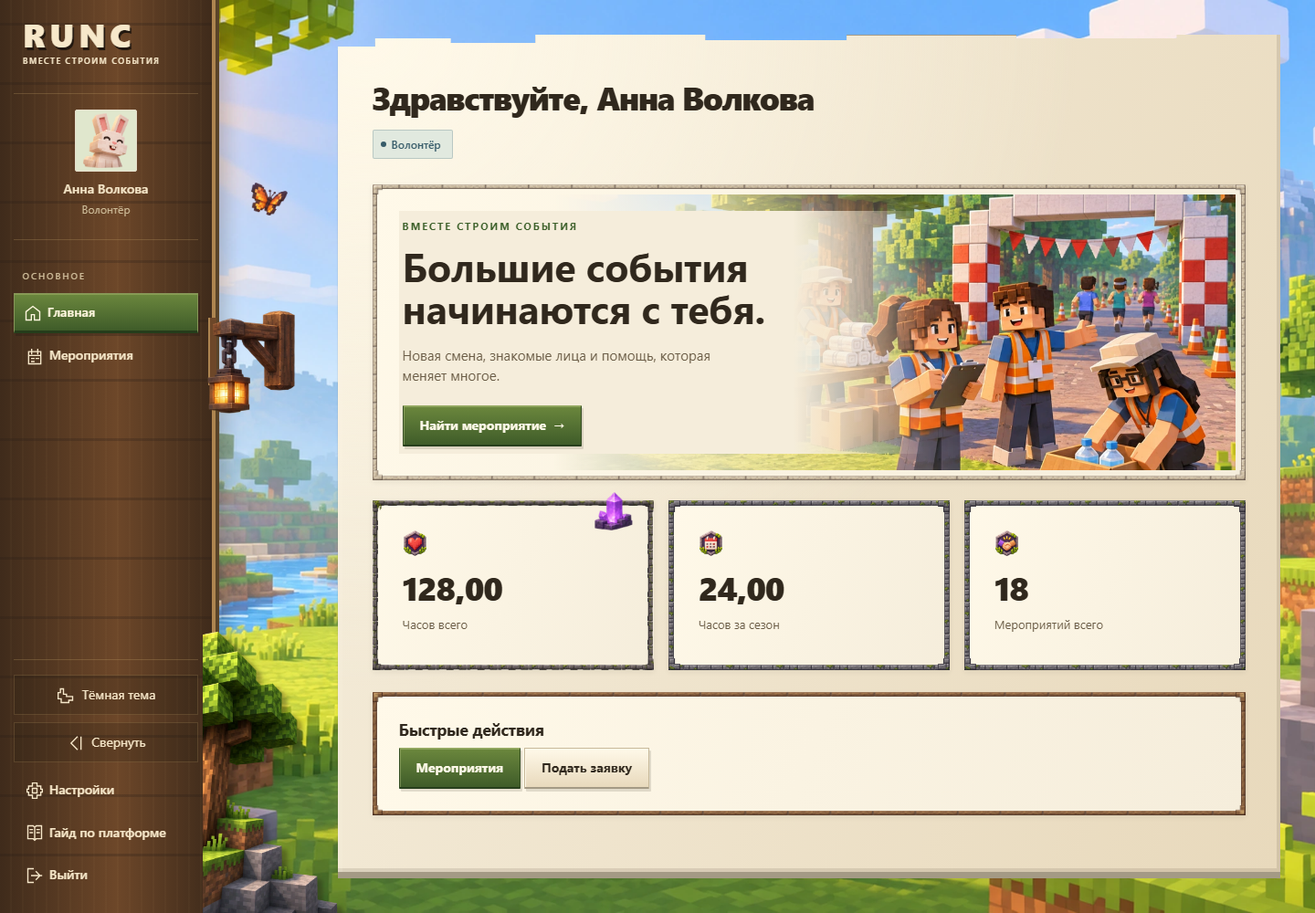
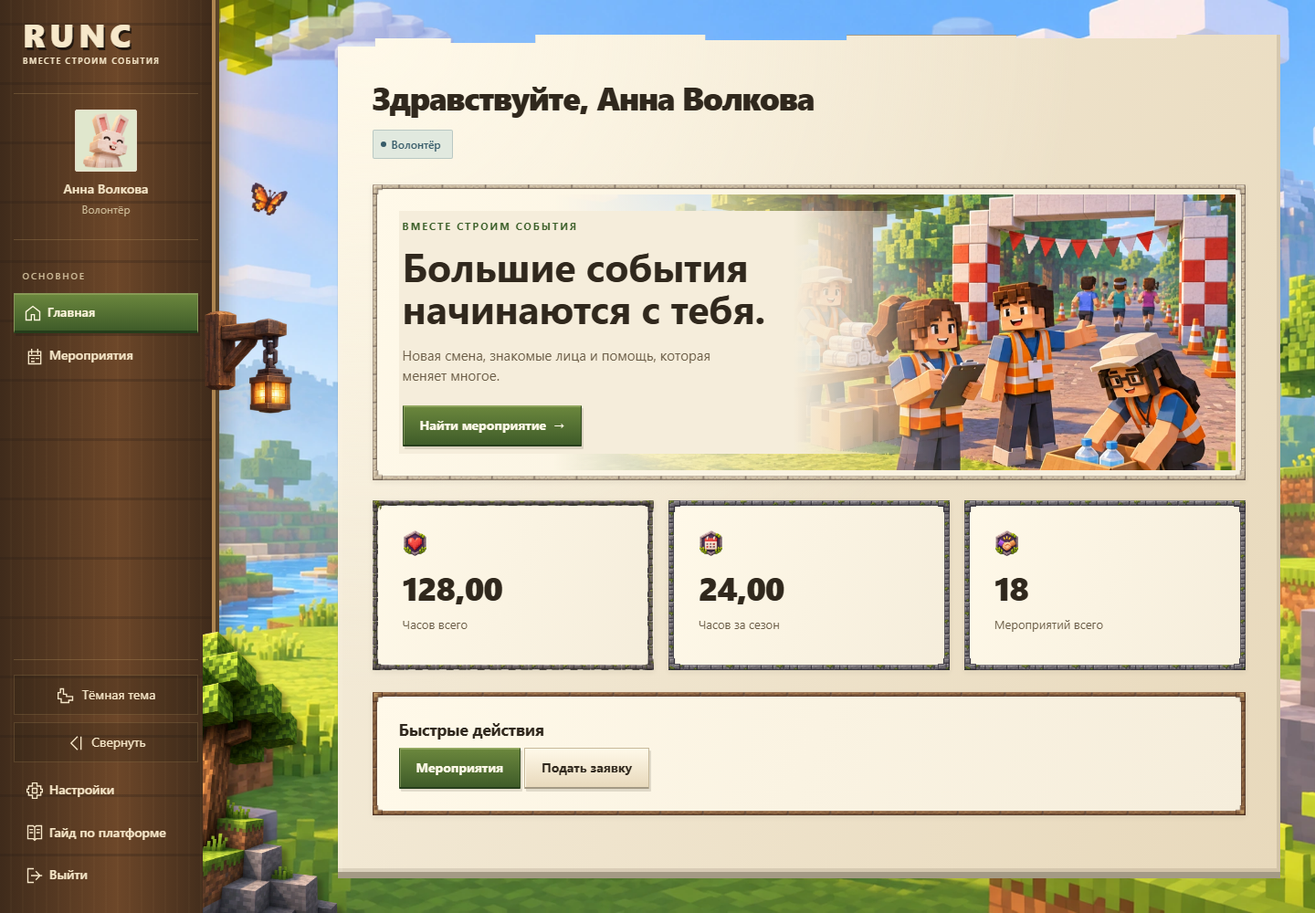
оформление: исправлены опора фонаря и профиль при масштабе 125%
Профиль использует контейнерную сетку с отдельным прогрессом и компактными плоскими кнопками. Удалён декор KPI, рамки профиля уменьшены. Настоящая стойка фонаря направлена к сайдбару. Добавлены плывущие облака и по одному внешнему украшению таблиц пользователей и заявок без перекрытия данных.

Проверки: 667 тестов OK (1 optional skip), отдельный Chromium — 64 сочетания экранов, тем и ширин, включая эффективные ширины масштаба 90/100/125%. Проверены геометрия профиля, примыкание украшений, движение облаков и reduced-motion. Статика собрана.

diff --git a/blog/static/blog/css/appearances/minecraft.css b/blog/static/blog/css/appearances/minecraft.css
@@ -207,22 +207,19 @@
 .mc-foreground { left:calc(var(--sidebar-width) - 18px); width:calc(var(--mc-gutter) + 50px); height:72vh; }
 .mc-foreground>img { left:0; width:100%; max-height:72vh; }
 .mc-foreground-glow { mix-blend-mode:screen; }
-.mc-hanging-lantern { position:fixed; left:calc(var(--sidebar-width) - 13px); top:34vh; width:96px; z-index:13; pointer-events:none; }
-.mc-hanging-lantern::before { content:""; position:absolute; left:1px; top:8px; width:9px; height:65%; background:var(--mc-timber); box-shadow:inset 2px 0 var(--mc-wood-hi); }
-.mc-hanging-lantern img { position:relative; width:100%; }
+.mc-hanging-lantern { position:fixed; left:calc(var(--sidebar-width) - 16px); top:34vh; width:96px; z-index:13; pointer-events:none; }
+.mc-hanging-lantern img { position:relative; width:100%; transform:scaleX(-1); }
 :root[data-theme="light"] .mc-hanging-lantern .mc-asset-light,:root[data-theme="dark"] .mc-hanging-lantern .mc-asset-dark { display:block; }
 :root[data-appearance="minecraft"] .modal-dialog,:root[data-appearance="minecraft"] .quick-add-dialog { border:2px solid var(--mc-rim-hi); box-shadow:0 12px 50px #0005; }
 :root[data-appearance="minecraft"] .appearance-theme-card { padding:18px; }
 :root[data-appearance="minecraft"] body.sidebar-collapsed .mc-foreground { left:calc(var(--sidebar-width-collapsed) - 18px); }
-:root[data-appearance="minecraft"] body.sidebar-collapsed .mc-hanging-lantern { left:calc(var(--sidebar-width-collapsed) - 13px); }
+:root[data-appearance="minecraft"] body.sidebar-collapsed .mc-hanging-lantern { left:calc(var(--sidebar-width-collapsed) - 16px); }
 :root[data-appearance="minecraft"] .avatar-placeholder { width:68px; height:68px; border:1px solid var(--mc-rim-hi); background:var(--accent-soft); box-shadow:none; }
 .mc-avatar { width:100%; height:100%; object-fit:contain; padding:3px; transition:transform .18s; }
 .mc-ambient { position:fixed; left:calc(var(--sidebar-width) + 35px); top:20vh; width:40px; pointer-events:none; z-index:6; }
 .mc-ambient img { width:100%; animation:mc-drift 9s ease-in-out infinite; }
 .mc-ambient .mc-asset-dark { width:45px; animation:mc-motes 7s ease-in-out infinite; }
 .mc-stat-icon { width:28px; height:28px; object-fit:contain; margin-bottom:8px; }
-.mc-card-accent { position:absolute; top:-22px; right:10px; width:42px; height:42px; pointer-events:none; }
-.mc-card-accent img { width:100%; height:100%; object-fit:contain; }
 :root[data-appearance="minecraft"] .btn,:root[data-appearance="minecraft"] .nav-link { transition:background-color .15s,transform .15s,box-shadow .15s; }
 :root[data-appearance="minecraft"] .sidebar-account:hover .mc-avatar { transform:translateY(-2px) rotate(-3deg); }
 @keyframes mc-drift { 0%,100% { transform:translate(0,0) rotate(-5deg); } 50% { transform:translate(8px,-12px) rotate(5deg); } }
@@ -244,3 +241,57 @@
  .mc-avatar { transition:none; }
  :root[data-appearance="minecraft"] .sidebar-account:hover .mc-avatar { transform:none; }
 }
+
+/* Компоновка реагирует на реальную ширину полотна, включая браузерный масштаб. */
+:root[data-appearance="minecraft"] #page-main { container:mc-content / inline-size; }
+:root[data-appearance="minecraft"] .profile-header { display:grid; grid-template-columns:minmax(0,1fr) 210px; grid-template-areas:"title progress" "actions progress"; gap:12px 22px; align-items:start; margin-bottom:20px; }
+:root[data-appearance="minecraft"] .profile-header>h1 { grid-area:title; min-width:0; overflow-wrap:anywhere; margin:0; }
+:root[data-appearance="minecraft"] .profile-actions { grid-area:actions; min-width:0; align-items:stretch; gap:6px; }
+:root[data-appearance="minecraft"] .profile-actions .btn.secondary { min-height:44px; padding:9px 12px; border:1px solid var(--border-subtle); border-bottom-width:1px; border-radius:4px; background:color-mix(in srgb,var(--bg-card) 75%,transparent); box-shadow:none; font-size:13px; font-weight:600; line-height:1.3; }
+:root[data-appearance="minecraft"] .profile-actions .btn.secondary:hover { color:var(--accent); border-color:var(--accent); background:var(--accent-soft); transform:none; }
+:root[data-appearance="minecraft"] .profile-actions .btn.secondary:active { box-shadow:inset 0 1px 3px #0002; }
+:root[data-appearance="minecraft"] .profile-actions [data-tour="profile-edit"] { color:var(--accent); background:var(--accent-soft); }
+:root[data-appearance="minecraft"] .profile-actions .mc-icon { width:17px; height:17px; flex-shrink:0; }
+:root[data-appearance="minecraft"] .profile-header .profile-completion { grid-area:progress; align-self:start; width:210px; min-width:0; margin:0; padding:12px; border-radius:4px; background:color-mix(in srgb,var(--bg-card) 65%,transparent); }
+:root[data-appearance="minecraft"] .profile-header .profile-completion h3 { font-size:12px; font-weight:600; line-height:1.3; }
+:root[data-appearance="minecraft"] .profile-header .profile-completion .recruit-bar { width:100%; height:6px; }
+:root[data-appearance="minecraft"][data-page="profile_detail"] .stat-tile { --rim-pad:6px; padding:14px 16px; box-shadow:none; }
+:root[data-appearance="minecraft"][data-page="profile_detail"] .card { --rim-pad:7px; }
+:root[data-appearance="minecraft"][data-page="profile_detail"] .stat-grid { grid-template-columns:repeat(5,minmax(0,1fr)); }
+:root[data-appearance="minecraft"][data-page="profile_detail"] .stat-tile .value { font-size:clamp(22px,4cqi,30px); }
+:root[data-appearance="minecraft"][data-page="profile_detail"] .stat-tile .label { font-size:12px; margin-top:6px; }
+@container mc-content (max-width:900px) {
+  :root[data-appearance="minecraft"][data-page="profile_detail"] .stat-grid { grid-template-columns:repeat(3,minmax(0,1fr)); }
+  :root[data-appearance="minecraft"] .profile-header { grid-template-columns:minmax(0,1fr); grid-template-areas:"title" "actions" "progress"; gap:14px; }
+  :root[data-appearance="minecraft"] .profile-header .profile-completion { width:100%; display:grid; grid-template-columns:minmax(0,1fr) minmax(100px,180px); align-items:center; gap:4px 18px; }
+  :root[data-appearance="minecraft"] .profile-header .profile-completion-heading { margin:0; }
+  :root[data-appearance="minecraft"] .profile-header .profile-completion .field-hint { grid-column:1/-1; }
+}
+@container mc-content (max-width:550px) {
+  :root[data-appearance="minecraft"][data-page="profile_detail"] .stat-grid { grid-template-columns:repeat(2,minmax(0,1fr)); }
+  :root[data-appearance="minecraft"] .profile-actions { display:grid; grid-template-columns:repeat(2,minmax(0,1fr)); gap:8px; }
+  :root[data-appearance="minecraft"] .profile-actions .btn { width:100%; min-width:0; text-align:center; justify-content:center; }
+  :root[data-appearance="minecraft"] .profile-actions [data-tour="profile-edit"] { grid-column:1/-1; }
+  :root[data-appearance="minecraft"] .profile-header .profile-completion { grid-template-columns:minmax(0,1fr); }
+}
+
+/* Небольшой декор — только снаружи последних таблиц двух выбранных страниц. */
+.mc-ornament-anchor { position:relative; display:flow-root; margin-bottom:42px; }
+:root[data-appearance="minecraft"] .mc-ornament-anchor>.card { margin-bottom:0; }
+.mc-ornament-anchor[data-mc-ornament="bird"] { margin-top:34px; }
+.mc-table-bird { position:absolute; bottom:calc(100% - 2px); right:28px; width:46px; height:36px; object-fit:contain; pointer-events:none; transform-origin:center bottom; animation:mc-bird-peek 15s ease-in-out infinite; }
+.mc-table-vines { position:absolute; top:calc(100% - 3px); left:28px; width:72px; pointer-events:none; }
+.mc-table-vines img { width:100%; height:auto; }
+:root[data-theme="dark"] .mc-table-bird { filter:brightness(.8); }
+.mc-clouds { position:absolute; inset:0; overflow:hidden; pointer-events:none; }
+.mc-cloud { --cloud-start:calc(-20vw - 280px); --cloud-end:calc(80vw + 280px); position:absolute; top:0; left:20%; width:210px; opacity:.65; animation:mc-cloud-pass 95s linear -35s infinite; }
+.mc-cloud--far { --cloud-start:calc(-65vw - 280px); --cloud-end:calc(35vw + 280px); top:18px; left:65%; width:270px; opacity:.38; animation-duration:125s; animation-delay:-88s; }
+:root[data-theme="dark"] .mc-cloud { filter:brightness(.48) hue-rotate(15deg); opacity:.4; }
+@keyframes mc-cloud-pass { from { transform:translateX(var(--cloud-start)); } to { transform:translateX(var(--cloud-end)); } }
+@keyframes mc-bird-peek { 0%,82%,100% { transform:rotate(0); } 88% { transform:rotate(-3deg); } 94% { transform:rotate(2deg); } }
+@media(prefers-reduced-motion:reduce) {
+  .mc-cloud,.mc-table-bird { animation:none; }
+  .mc-cloud { left:38%; }
+  .mc-cloud--far { left:5%; }
+}
+@media print { .mc-clouds,.mc-table-bird,.mc-table-vines { display:none; } }

diff --git a/blog/templates/blog/profile_self.html b/blog/templates/blog/profile_self.html
@@ -3,16 +3,16 @@
 {% block content %}
 {% comment %}Страница профиля ГЛАЗАМИ ВЛАДЕЛЬЦА (сам смотрит себя). Управленческий вид
 (менеджер/ТЛ на чужом профиле) — отдельный файл profile_manage.html.{% endcomment %}
-<div class="page-header">
+<div class="page-header profile-header">
     <h1>{{ target.full_name }}</h1>
-    <div style="display:flex; gap:8px; flex-wrap:wrap;">
+    <div class="profile-actions">
         <a href="{% url 'personal_qr' %}" class="btn secondary" data-modal data-modal-title="Мой QR-код">Мой QR-код</a>
         {% if can_scan_qr %}<a href="{% url 'qr_scanner' %}" class="btn secondary">Сканер QR</a>{% endif %}
         <a href="{% url 'profile_achievements' target.id %}" class="btn secondary" data-tour="profile-achievements">{% include 'blog/partials/_appearance_icon.html' with name='award' fallback='🏅' %} Мои достижения{% if achievement_earned_count %} <span class="pill success" style="margin-left:4px;">{{ achievement_earned_count }}</span>{% endif %}</a>
         <a href="{% url 'profile_stats' target.id %}" class="btn secondary">{% include 'blog/partials/_appearance_icon.html' with name='chart' fallback='📊' %} Моя статистика</a>
-        <a href="{% url 'profile_edit' %}" class="btn secondary" data-tour="profile-edit">✎ Редактировать профиль</a>
-        {% include 'blog/partials/_profile_completion.html' with progress=profile_completion %}
+        <a href="{% url 'profile_edit' %}" class="btn secondary" data-tour="profile-edit">{% include 'blog/partials/_appearance_icon.html' with name='pencil' fallback='✎' %} Редактировать профиль</a>
     </div>
+    {% include 'blog/partials/_profile_completion.html' with progress=profile_completion %}
 </div>
 
 <div class="pill-row" style="display:flex; flex-wrap:wrap; gap:8px; align-items:center;">
@@ -57,7 +57,7 @@
     </table>
     {% else %}
     <p style="color:var(--text-secondary);">Активных заявок нет, но ты всегда можешь это исправить.</p>
-    <a href="{% url 'event_list' %}" class="btn">📅 К мероприятиям</a>
+    <a href="{% url 'event_list' %}" class="btn">{% include 'blog/partials/_appearance_icon.html' with name='calendar' fallback='📅' %} К мероприятиям</a>
     {% endif %}
 </div>
 {% endif %}

diff --git a/blog/templates/blog/pending_applications.html b/blog/templates/blog/pending_applications.html
@@ -1,4 +1,5 @@
 {% extends 'blog/base.html' %}
+{% load static %}
 {% block title %}Заявки{% endblock %}
 {% block content %}
 <div class="page-header">
@@ -21,6 +22,7 @@
 
 {% include 'blog/partials/_table_search.html' with search_target="#apps-table" search_placeholder="Поиск по мероприятию, ФИО, телефону, telegram…" %}
 
+<div class="mc-ornament-anchor" data-mc-ornament="vines">
 <div class="card" style="padding:0; overflow:hidden;">
     <table class="responsive-table" data-sortable data-hideable-columns id="apps-table">
         <thead><tr><th data-sort-key="event">Мероприятие</th><th data-sort-key="name">ФИО</th><th data-sort-key="tg">Telegram</th><th data-sort-key="phone">Телефон</th><th data-sort-key="date" data-sort-default="desc">Подано</th><th></th></tr></thead>
@@ -52,5 +54,7 @@
         {% endfor %}
         </tbody>
     </table>
+</div>
+{% if active_appearance.key == 'minecraft' %}<div class="mc-table-vines" aria-hidden="true"><img class="mc-asset-light" src="{% static 'blog/appearances/minecraft/scene/table-vines-day.png' %}" alt=""><img class="mc-asset-dark" src="{% static 'blog/appearances/minecraft/scene/table-vines-night.png' %}" alt=""></div>{% endif %}
 </div>
 {% endblock %}

diff --git a/blog/templates/blog/user_list.html b/blog/templates/blog/user_list.html
@@ -1,4 +1,5 @@
 {% extends 'blog/base.html' %}
+{% load static %}
 {% block title %}Пользователи{% endblock %}
 {% block content %}
 <h1>Пользователи</h1>
@@ -6,6 +7,7 @@
 {% url 'user_list' as search_url %}
 {% include 'blog/partials/_table_search.html' with search_target="#users-table" search_placeholder="Поиск по фамилии, имени, отчеству, Telegram…" search_roles=True %}
 
+<div class="mc-ornament-anchor" data-mc-ornament="bird">
 <div class="card" style="padding:0; overflow:hidden;">
     <div class="table-scroll">
     <div class="table-load-tools" data-table-load-tools>
@@ -29,5 +31,7 @@
         {% include 'blog/partials/_user_list_rows.html' %}
     </table>
     </div>
+</div>
+{% if active_appearance.key == 'minecraft' %}<img class="mc-table-bird" src="{% static 'blog/appearances/minecraft/scene/table-bird.png' %}" alt="" aria-hidden="true">{% endif %}
 </div>
 {% endblock %}

diff --git a/blog/templates/blog/partials/_minecraft_world.html b/blog/templates/blog/partials/_minecraft_world.html
@@ -4,6 +4,7 @@
     {% if minecraft_world_light_asset %}<img class="mc-world-image mc-asset-light" src="{% static minecraft_world_light_asset %}" alt="">{% endif %}
     {% if minecraft_world_dark_asset %}<img class="mc-world-image mc-asset-dark" src="{% static minecraft_world_dark_asset %}" alt="">{% endif %}
     <div class="mc-horizon"></div><div class="mc-sun"></div>
+    <div class="mc-clouds"><img class="mc-cloud mc-cloud--near" src="{% static 'blog/appearances/minecraft/scene/cloud-near.png' %}" alt=""><img class="mc-cloud mc-cloud--far" src="{% static 'blog/appearances/minecraft/scene/cloud-far.png' %}" alt=""></div>
 </div>
 <div class="mc-foreground" aria-hidden="true">
     {% if minecraft_foreground_light_asset %}<img class="mc-asset-light" src="{% static minecraft_foreground_light_asset %}" alt="">{% endif %}

diff --git a/blog/templates/blog/dashboard.html b/blog/templates/blog/dashboard.html
@@ -8,7 +8,6 @@
 
 <div class="stat-grid" style="margin-top:1rem;">
     <div class="stat-tile">
-        {% if active_appearance.key == 'minecraft' %}<span class="mc-card-accent" aria-hidden="true"><img class="mc-asset-light" src="{% static 'blog/appearances/minecraft/scene/flowers.png' %}" alt=""><img class="mc-asset-dark" src="{% static 'blog/appearances/minecraft/scene/crystals.png' %}" alt=""></span>{% endif %}
         {% if active_appearance.key == 'minecraft' %}<img class="mc-stat-icon" src="{% static 'blog/appearances/minecraft/scene/badge-heart.png' %}" alt="">{% endif %}
         <div class="value">{{ user.total_hours }}</div>
         <div class="label">Часов всего</div>

diff --git a/blog/templates/blog/partials/_minecraft_icons.html b/blog/templates/blog/partials/_minecraft_icons.html
@@ -20,4 +20,5 @@
 <symbol id="mc-icon-lock" viewBox="0 0 24 24"><path d="M7 10V3h10v7M4 10h16v11H4zM12 14v4"/></symbol>
 <symbol id="mc-icon-bell" viewBox="0 0 24 24"><path d="M4 17h16l-3-5V5H7v7zM10 21h4M12 2v3"/></symbol>
 <symbol id="mc-icon-award" viewBox="0 0 24 24"><path d="M5 2h14v12h-4l4 8-7-3-7 3 4-8H5zM9 6h6v4H9z"/></symbol>
+<symbol id="mc-icon-pencil" viewBox="0 0 24 24"><path d="m4 15 12-12 5 5-12 12H4zM13 6l5 5M4 15l5 5"/></symbol>
 </defs></svg>

diff --git a/blog/static/blog/css/nexus.css b/blog/static/blog/css/nexus.css
@@ -145,6 +145,7 @@ h3 { font: var(--text-h2); margin: 0 0 8px; }
   gap: 12px; flex-wrap: wrap; margin-bottom: 1rem;
 }
 .page-header h1 { margin: 0; }
+.profile-actions { display:flex; gap:8px; flex-wrap:wrap; }
 @media (max-width: 480px) {
   .page-header .btn { width: 100%; justify-content: center; }
 }

diff --git a/blog/tests/test_appearance_browser.py b/blog/tests/test_appearance_browser.py
@@ -36,7 +36,7 @@ class AppearanceBrowserTests(StaticLiveServerTestCase):
         """Выбор вручную, перезагрузка, темы, общий браузер, мобильное меню и модалка."""
         volunteer = make_user(first_name='Анна', last_name='Волкова', total_hours=128,
                               season_hours=24, total_event_count=18)
-        manager = make_manager(first_name='Михаил', last_name='Орлов', total_hours=256)
+        manager = make_manager(first_name='Менеджер', last_name='Тестовый', total_hours=256)
         event = make_event(title='Городской полумарафон')
         shift = make_shift(event)
         for index in range(4):
@@ -54,6 +54,7 @@ class AppearanceBrowserTests(StaticLiveServerTestCase):
             input=json.dumps({'origin': self.live_server_url, 'sessions': sessions,
                               'cookieName': settings.SESSION_COOKIE_NAME,
                               'pending': reverse('pending_applications'),
+                              'users': reverse('user_list'),
                               'managedProfile': reverse('profile_detail', args=[volunteer.pk])}),
             text=True, encoding='utf-8', capture_output=True, timeout=180,
         )

diff --git a/documentation/appearance-system.md b/documentation/appearance-system.md
@@ -1,5 +1,18 @@
 # Оформления интерфейса
 
+## План адаптивного профиля и локального декора
+
+До реализации: убрать декор показателя «Часов всего»; развернуть изображение фонаря
+так, чтобы его настоящая вертикальная стойка накладывалась на край сайдбара
+(прежняя проверка общего прямоугольника картинки не проверяла положение стойки).
+Профиль — сетка имени/прогресса/действий, без виджета прогресса внутри flex-ряда
+кнопок. Контейнерные точки перестроения проверяются на CSS-ширинах, соответствующих
+90/100/110/125% масштаба. Кнопки панели действий плоские и компактные, рамки
+статистики профиля — 6 px. Движущиеся облака находятся позади интерфейса.
+Локальные украшения только на двух страницах: птица над последней таблицей
+пользователей и небольшая свисающая кромка под таблицей заявок. Они за пределами
+табличных данных, не принимают клики, не повторяются на остальных панелях.
+
 ## План визуальной полировки (4 ноября 2026)
 
 Причины дефектов по скриншотам: рамка находилась в абсолютном псевдоэлементе,
@@ -141,7 +154,7 @@ obsidian, mossy, ember, golden, starlight. Сегменты повторяютс
 | Личные панели | Дерево только при явном `data-mc-surface="personal"` | Обсидиан |
 | Фонарь и крепление | Тёплый свет, деревянная опора у сайдбара | Фиолетовый свет, обсидиановая опора |
 | Передний план и баннер | Дневной лес/команда | Ночной мир/команда |
-| Небольшой живой акцент | Бабочка, цветы | Светлячки, кристаллы |
+| Небольшой живой акцент | Бабочка, облака | Светлячки, приглушённые облака |
 | Аватар и значки показателей | Постоянны для аккаунта/значения | Те же изображения |
 | Значение действий и иконок | Зелёный — основное действие, красный — опасное | Смысл не меняется, цвета адаптируются |
 
@@ -206,3 +219,33 @@ obsidian, mossy, ember, golden, starlight. Сегменты повторяютс
 Актуальные регрессии: [заявки и hover](appearance-previews/pending-light.png),
 [ночной профиль и история чарна](appearance-previews/managed-profile-dark.png),
 [заявки на мобильном](appearance-previews/pending-dark-390.png).
+
+## Профиль, масштаб и дозированный декор
+
+Профиль владельца использует `.profile-header`: имя, действия и прогресс — отдельные
+области сетки. Контейнер `mc-content` перестраивает их по доступной ширине полотна;
+прогресс больше не является элементом flex-ряда кнопок. Кнопки плоские, с тонкой
+границей и высотой от 44 px. Рамки статистики — 6 px, остальных карточек профиля —
+7 px. Сетка показателей перестраивается 5/3/2 колонки. Декор KPI полностью удалён.
+
+Изображение фонаря отражено по горизонтали: настоящая вертикальная стойка спрайта
+лежит на краю сайдбара, кронштейн и светильник направлены наружу. Проверяется
+ориентация изображения, а не только пересечение прямоугольников.
+
+Два слоя облаков движутся по разным траекториям и со скоростью 95/125 с за проход,
+сразу видны в области неба, ночью приглушены. При reduced-motion остаются статичными.
+Украшения таблиц добавлены только в `/users/` (птица сверху) и в списке заявок
+(маленькая свисающая кромка снизу). Внешняя обёртка `.mc-ornament-anchor` оставляет
+рисунок за пределами таблицы; у внутренней карточки убран нижний margin, чтобы
+орнамент касался рамки, а не висел под ней. Изображения не принимают клики и скрыты
+от screen reader. На остальных таблицах украшений нет.
+
+Проверки: полный набор 667 тестов, один optional skip. Отдельный Chromium — 64
+сочетания страниц/тем/ширин, включая CSS-ширины для 90/100/125% при физических
+1440 и 1920 px; отсутствие пересечений прогресса/действий, лишнего отступа,
+переполнения, проверка опоры, движения облаков и внешних границ украшений.
+
+Превью новой компоновки: [профиль 100%](appearance-previews/own-profile-light-100.png),
+[профиль 125%](appearance-previews/own-profile-light-125.png),
+[птица у таблицы](appearance-previews/ornament-bird-light.png),
+[свисающий ночной декор](appearance-previews/ornament-vines-dark.png).

diff --git a/documentation/minecraft-assets.md b/documentation/minecraft-assets.md
@@ -14,13 +14,18 @@
 |---|---|---|
 | `scene/lantern-day.png` | `ui_extras_strict/badge-star.png` | Фонарь с деревянной опорой |
 | `scene/lantern-night.png` | `ui_extras_strict/badge-handshake.png` | Фонарь с обсидиановой опорой |
-| `scene/flowers.png` | `ui_extras_strict/title-plaque-limestone-banners.png` | Дневной акцент |
-| `scene/crystals.png` | `ui_extras_strict/title-plaque-moss-lantern.png` | Ночной акцент |
+| `scene/flowers.png` | `ui_extras_strict/title-plaque-limestone-banners.png` | Резерв; из KPI удалён |
+| `scene/crystals.png` | `ui_extras_strict/title-plaque-moss-lantern.png` | Резерв; из KPI удалён |
 | `scene/butterfly.png` | `ambient/ambient-sparkle-06.png` | Дневное окружение |
 | `scene/fireflies.png` | `ambient/bird-blue-flying.png` | Ночное окружение |
 | `scene/badge-heart.png` | `decor_strict/lantern-stone-moss-01.png` | Часы помощи |
 | `scene/badge-calendar.png` | `decor_strict/moss-corner-wood-01.png` | Текущий сезон |
 | `scene/badge-handshake.png` | `decor_strict/lantern-obsidian-01.png` | Участие в мероприятиях |
+| `scene/cloud-near.png` | `ui_extras_strict/ui-extra-36.png` | Ближние плывущие облака |
+| `scene/cloud-far.png` | `ui_extras_strict/ui-extra-39.png` | Дальний слой облаков |
+| `scene/table-bird.png` | `ambient/ambient-sparkle-03.png` | Только верх таблицы пользователей |
+| `scene/table-vines-day.png` | `ui_extras_strict/ribbon-red.png` | Только низ таблицы заявок, день |
+| `scene/table-vines-night.png` | `ui_extras_strict/ribbon-green.png` | Только низ таблицы заявок, ночь |
 
 Новая графика для исправлений не требуется. Непроверенные элементы не подключаются
 по одному имени файла.
